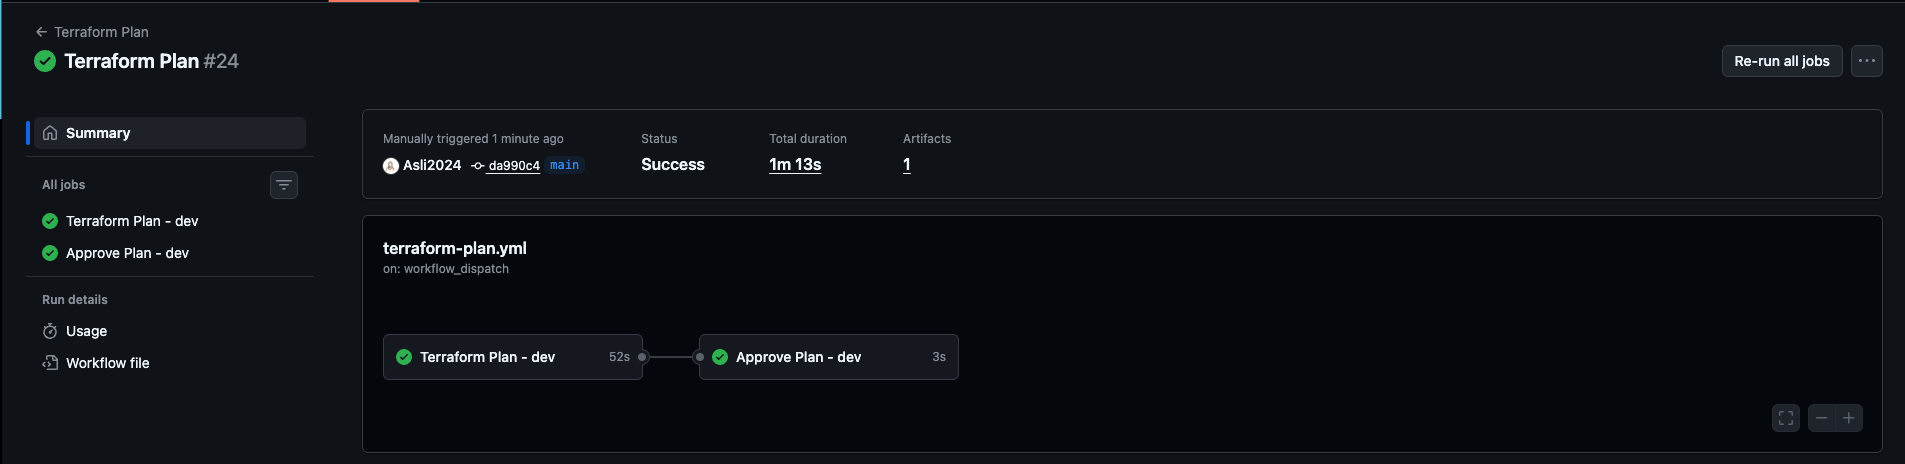
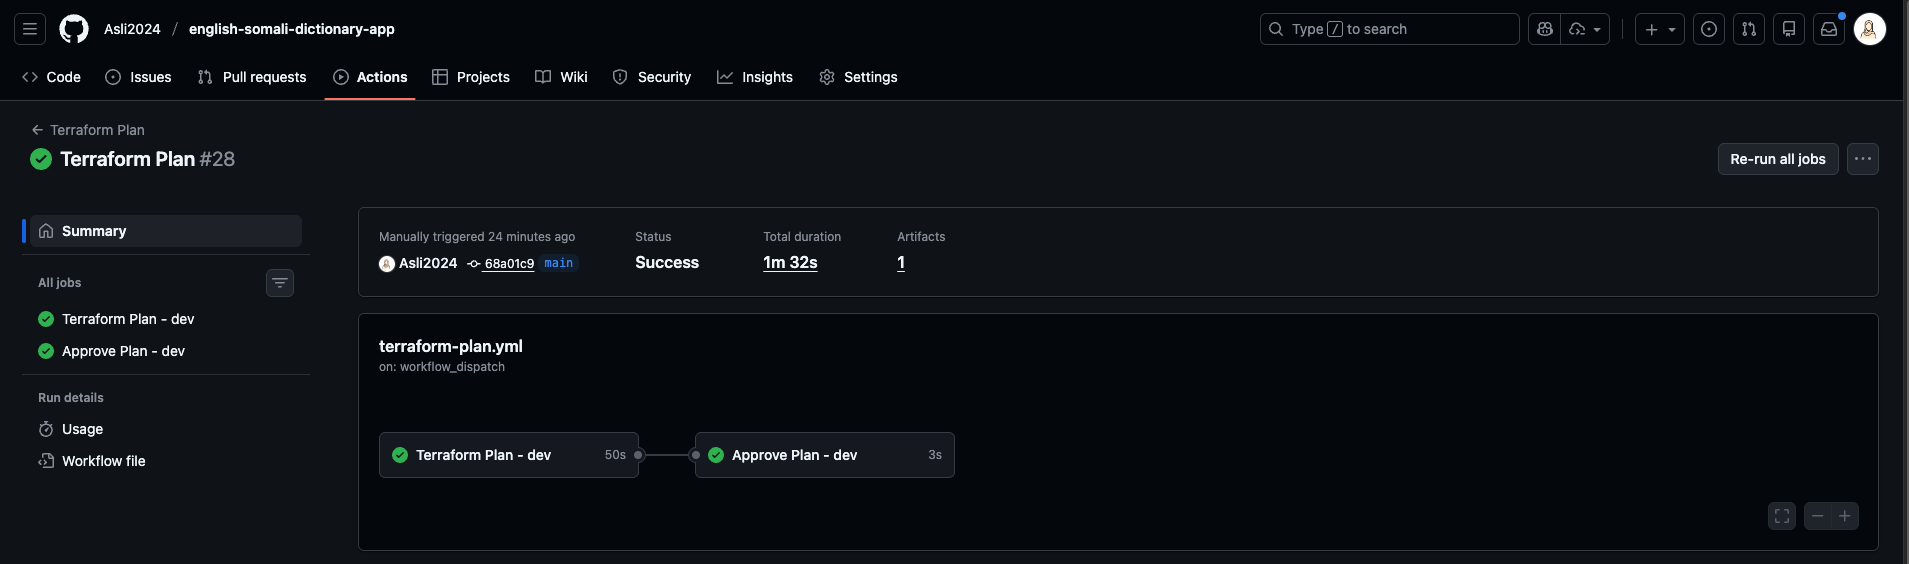
Updated README.md and requirements.txt

diff --git a/README.md b/README.md
@@ -77,7 +77,7 @@ The application uses Docker multi-stage builds to optimize image size and securi
 
 ## Live Deployment
 
-[Live Deployment Demo](https://www.loom.com/share/9823e488715e4eb9bad9d9c6bd54d7c2)
+[Live Deployment Demo](https://www.loom.com/share/20b1ac0253104063a9c6a2b7f2b9e992)
 
 ## Key Features
 
@@ -194,16 +194,16 @@ All workflows are located in `.github/workflows/`.
 
 [Docker Build, Scan , Approve and Push Run](https://github.com/Asli2024/english-somali-dictionary-app/actions/runs/20662878015): ![Docker Build Screenshot](images/docker-build-push.png)
 
-[Terraform Plan and Approve Run](https://github.com/Asli2024/english-somali-dictionary-app/actions/runs/20663077549): ![Terraform Plan and Approve Run](images/terraform-plan-and-approve.png)
+[Terraform Plan and Approve Run](https://github.com/Asli2024/english-somali-dictionary-app/actions/runs/20665185917): ![Terraform Plan and Approve Run](images/terraform-plan-and-approve.png)
 
 
-[Terraform Apply Run](https://github.com/Asli2024/english-somali-dictionary-app/actions/runs/20663097722): ![Terraform Apply Run](images/terraform-apply.png)
+[Terraform Apply Run](https://github.com/Asli2024/english-somali-dictionary-app/actions/runs/20665211866): ![Terraform Apply Run](images/terraform-apply.png)
 
 
-[Terraform Destroy Plan and Approve](https://github.com/Asli2024/english-somali-dictionary-app/actions/runs/20583340179): ![Terraform Destroy Plan and Approve](images/terraform-destroy-plan-and-approve.png)
+[Terraform Destroy Plan and Approve](https://github.com/Asli2024/english-somali-dictionary-app/actions/runs/20665620464): ![Terraform Destroy Plan and Approve](images/terraform-destroy-plan-and-approve.png)
 
 
-[Terraform Destroy Apply](https://github.com/Asli2024/english-somali-dictionary-app/actions/runs/20583351760): ![Terraform Destroy Apply](images/terraform-destroy-apply.png)
+[Terraform Destroy Apply](https://github.com/Asli2024/english-somali-dictionary-app/actions/runs/20665638529): ![Terraform Destroy Apply](images/terraform-destroy-apply.png)
 
 ---
 ## Contributing
